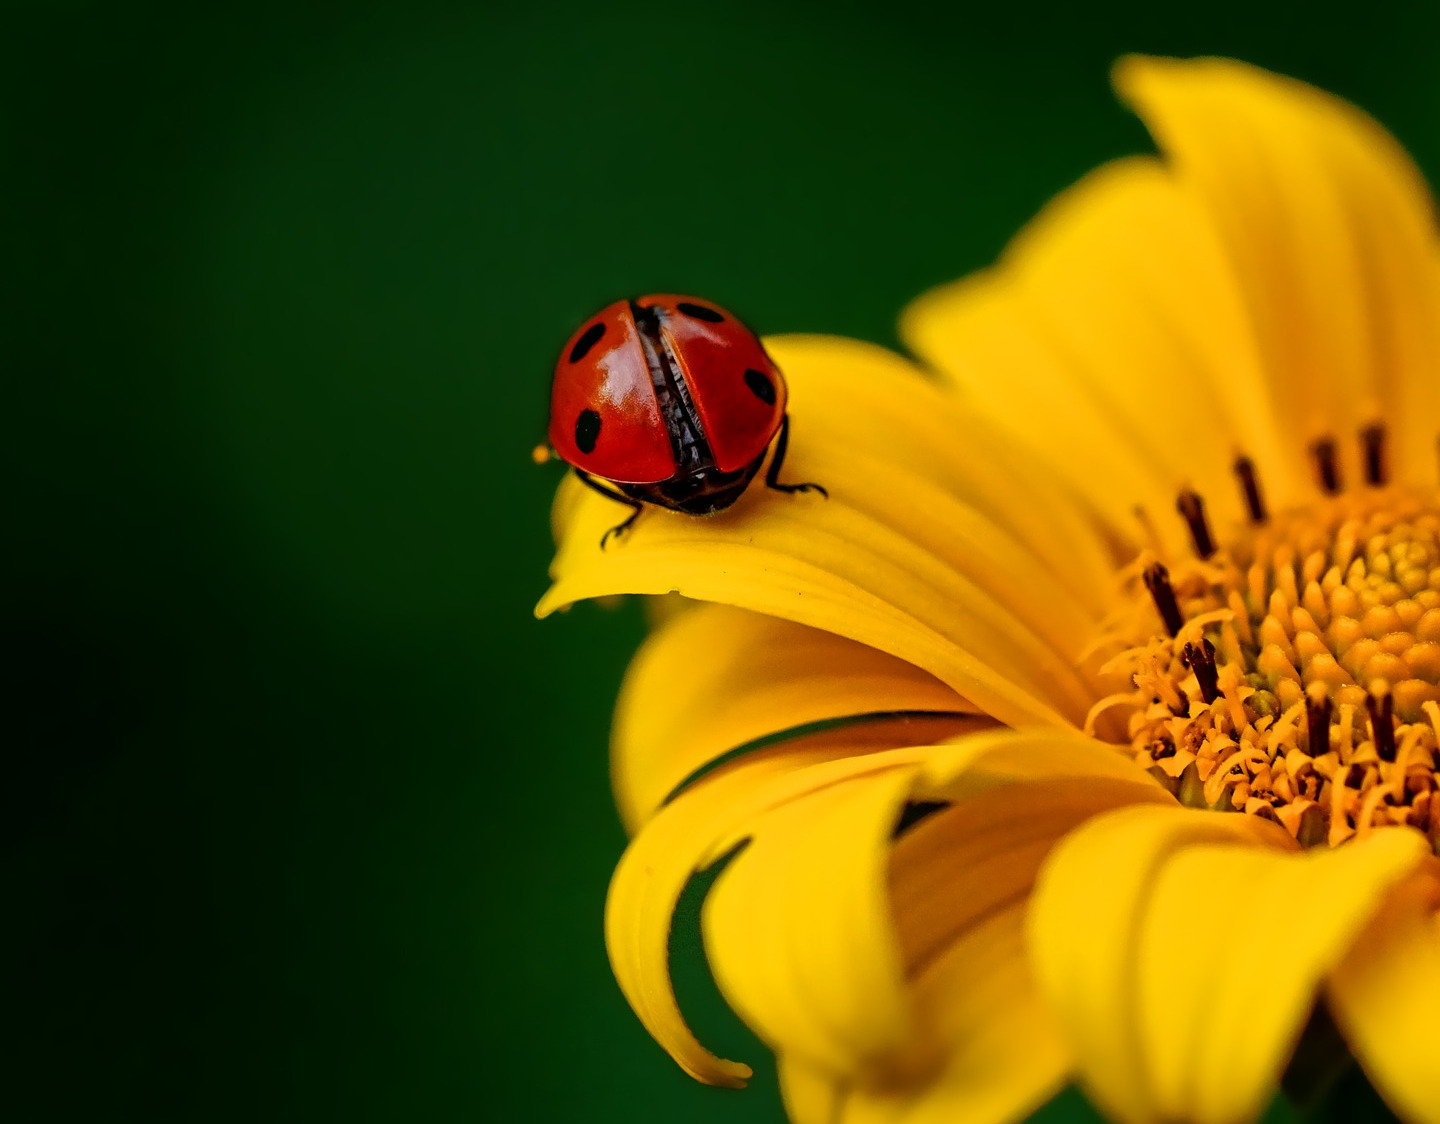
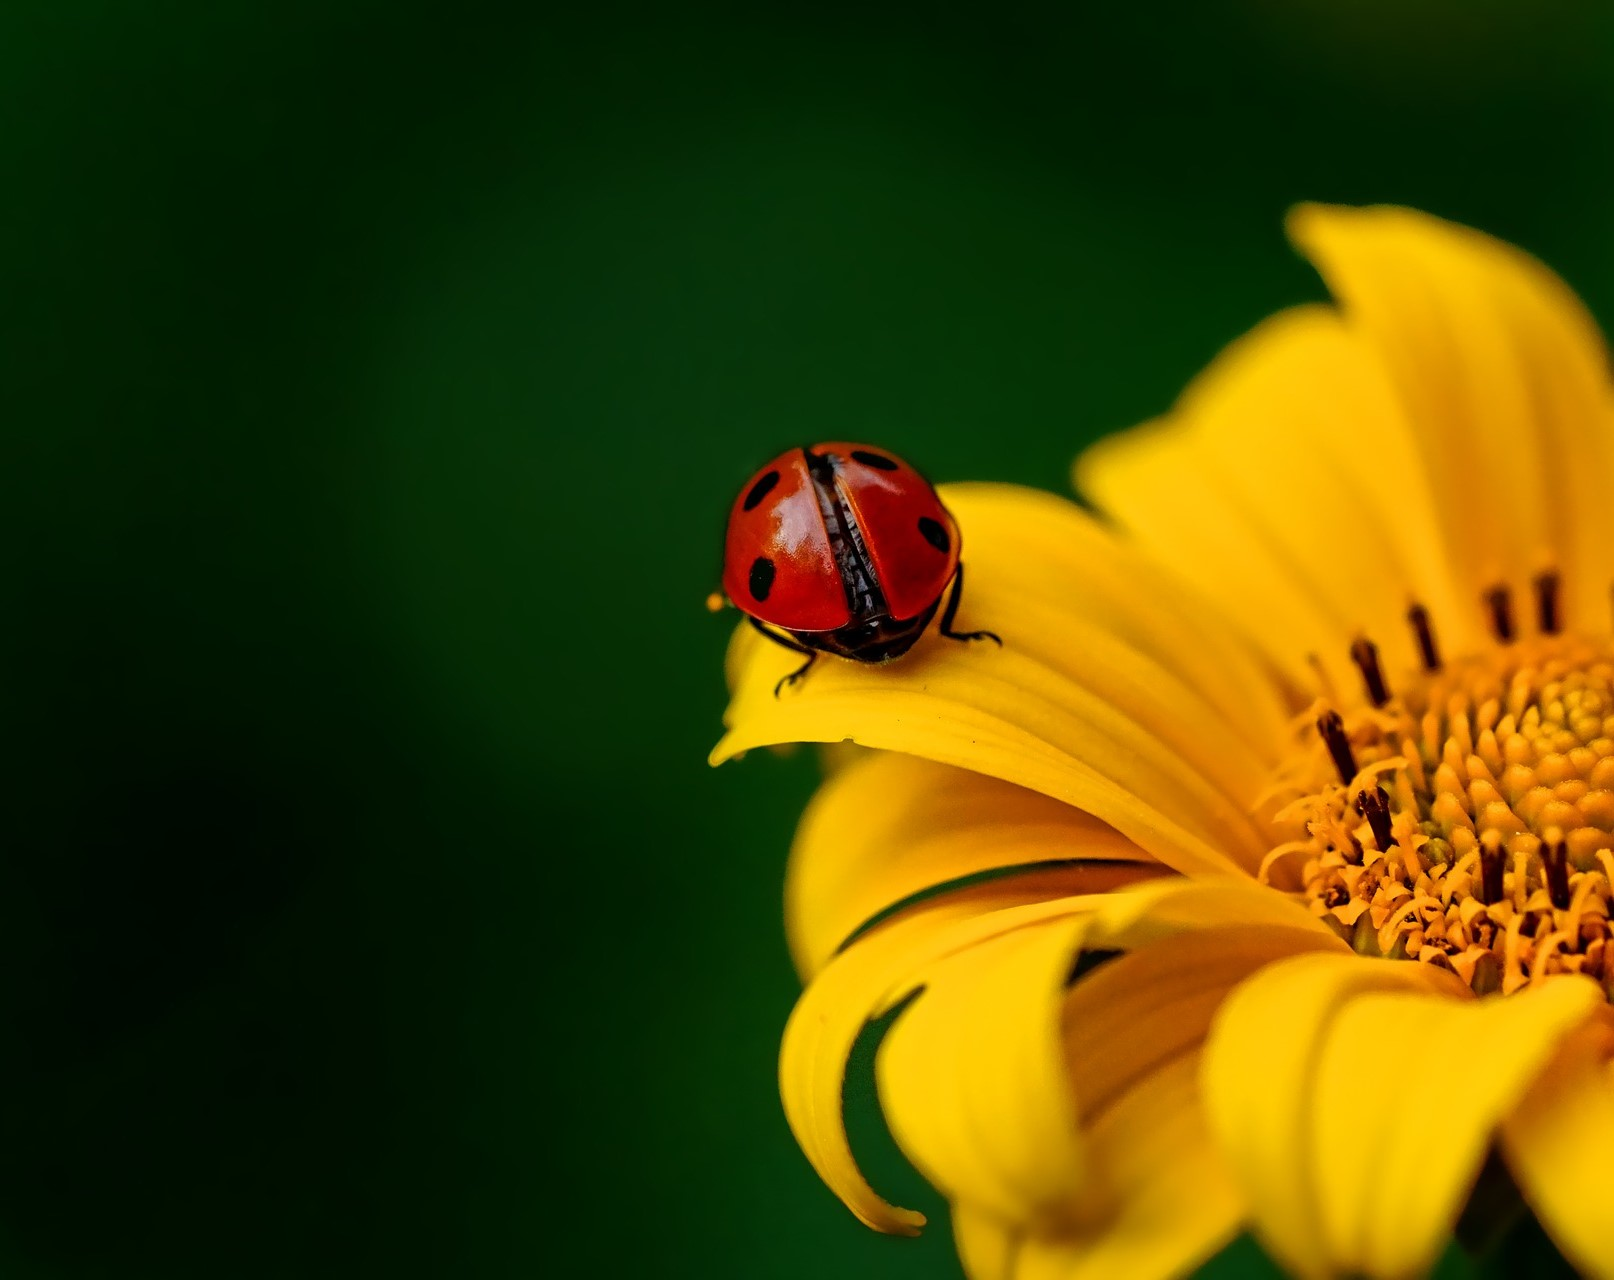
Alterando por imagem-editada

diff --git a/style.css b/style.css
@@ -90,7 +90,6 @@ section.imagem {
     background-size: cover;
     background-repeat: no-repeat;
     background-attachment: fixed;
-    height: 20%;
 }
 
 section.imagem > p {
@@ -101,8 +100,8 @@ section.imagem > p {
 }
 
 section#img01 {
-    background-image: url(img/background001.jpg);
-    background-position: right top;
+    background-image: url(img/background001-editada.jpg);
+    background-position: center top;
 }
 
 section#img02 {
